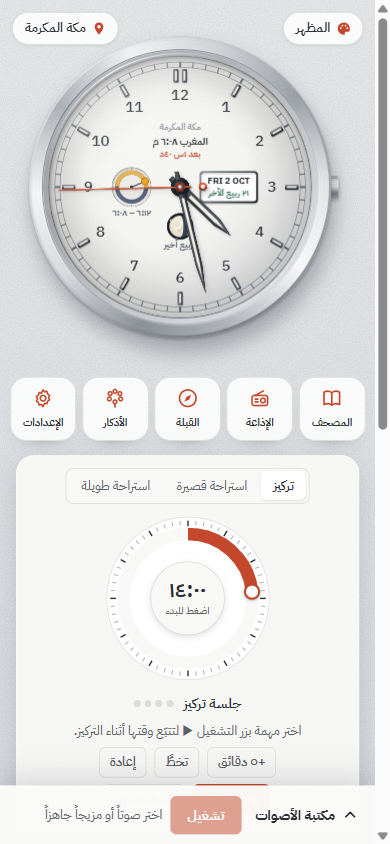
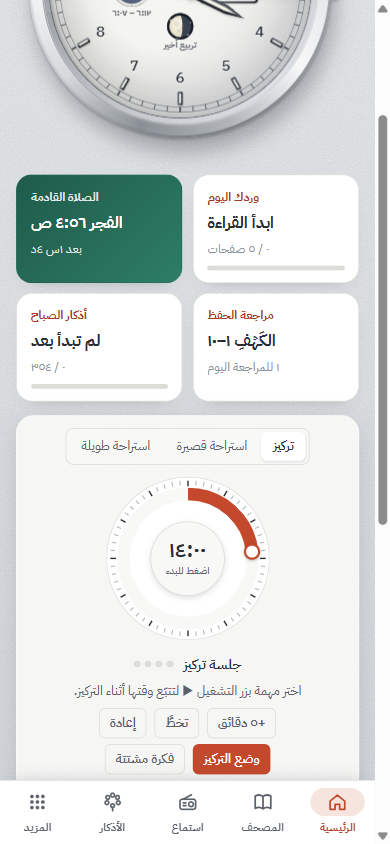
README for 2.x; real-phone tests in Firebase Test Lab; readable review dates
- README: what's new in 2.x, the new features and files, a memorisation
  screenshot and the new home screen, in English and Arabic.
- devices.yml + docs/DEVICE_TESTING.md: run each release on a Samsung and a
  Xiaomi phone in Firebase Test Lab (robo test); skipped until the secrets exist.
- Memorisation: review dates read "today", "tomorrow" or "6 October" instead
  of an ISO date that reads backwards in RTL.

diff --git a/js/hifz.js b/js/hifz.js
@@ -17,6 +17,9 @@
   const label = (it) => (it.from === 1 && it.to === count(it.s) ? name(it.s) : `${name(it.s)} ${I.num(it.from)}–${I.num(it.to)}`);
   const today = () => dayKey();
   const due = () => S.items.filter((it) => it.due <= today()).sort((a, b) => a.due.localeCompare(b.due) || a.s - b.s);
+  // A review day as people say it: today, tomorrow, or "6 October" (an ISO date reads backwards in RTL).
+  const when = (k) => (k === today() ? T('اليوم') : k === addDays(today(), 1) ? T('غداً')
+    : new Date(k.replace(/-/g, '/')).toLocaleDateString(I.locale, { day: 'numeric', month: 'long' }));
   const ayat = () => S.items.reduce((n, it) => n + (it.to - it.from + 1), 0);
 
   function add(s, from, to) {
@@ -76,7 +79,7 @@
       d.forEach((it) => {
         const r = el('div', 'hz-row');
         const txt = el('div', 'hz-text');
-        txt.append(el('b', '', label(it)), el('small', '', it.last ? `${T('آخر مراجعة')}: ${it.last}` : T('أول مراجعة')));
+        txt.append(el('b', '', label(it)), el('small', '', it.last ? `${T('آخر مراجعة')}: ${when(it.last)}` : T('أول مراجعة')));
         const read = button('btn btn-quiet', T('اقرأ'), () => { history.back(); setTimeout(() => window.noonQuran && window.noonQuran.openAyah(it.s + 1, it.from), 150); });
         const acts = el('div', 'hz-acts');
         acts.append(
@@ -125,7 +128,7 @@
       [...S.items].sort((x, y) => x.s - y.s || x.from - y.from).forEach((it) => {
         const r = el('div', 'hz-row');
         const txt = el('div', 'hz-text');
-        txt.append(el('b', '', label(it)), el('small', '', `${T('المراجعة القادمة')}: ${it.due}`));
+        txt.append(el('b', '', label(it)), el('small', '', `${T('المراجعة القادمة')}: ${when(it.due < today() ? today() : it.due)}`));
         const del = button('link-btn danger', T('حذف'), () => { S.items = S.items.filter((x) => x !== it); save(); render(); });
         r.append(txt, del);
         list.append(r);

diff --git a/sw.js b/sw.js
@@ -2,7 +2,7 @@
 // Page files: network first, so every visit gets the newest version, with the
 // saved copy as the fallback when there is no connection.
 // Sound recordings: saved the first time they play, then served from the device.
-const VERSION = 'v22';
+const VERSION = 'v23';
 const SHELL = 'shell-' + VERSION;
 const MEDIA = 'media-v1';
 const QURAN = 'quran-v1'; // the Mushaf texts: large and fixed, so kept once fetched

diff --git a/index.html b/index.html
@@ -1917,7 +1917,7 @@
 <script src="js/device.js?v=2.1.1"></script>
 <script src="js/extras-data.js?v=2.1.1"></script>
 <script src="js/quran-meta.js?v=2.1.1"></script>
-<script src="js/hifz.js?v=2.1.1"></script>
+<script src="js/hifz.js?v=2.1.2"></script>
 <script src="js/khatma.js?v=2.1.1"></script>
 <script src="js/quran.js?v=2.1.1"></script>
 <script src="js/sunnah-data.js?v=2.1.1"></script>

diff --git a/README.md b/README.md
@@ -30,15 +30,18 @@
 
 <table>
   <tr>
-    <td align="center"><img src="docs/screens/home.png" width="190" alt="Home: the prayer clock and the quick bar"><br><sub>Home · الرئيسية</sub></td>
+    <td align="center"><img src="docs/screens/home.png" width="190" alt="Home: the next prayer, today's wird, the adhkar and the memorisation review, with the bottom bar"><br><sub>My day · يومي</sub></td>
     <td align="center"><img src="docs/screens/quran.png" width="190" alt="The Mushaf with tafsir under each verse"><br><sub>The Mushaf · المصحف</sub></td>
-    <td align="center"><img src="docs/screens/listen.png" width="190" alt="Quran radio from Cairo and Saudi Arabia, and 177 stations"><br><sub>Listen · استماع</sub></td>
-    <td align="center"><img src="docs/screens/settings.png" width="190" alt="The Settings screen"><br><sub>Settings · الإعدادات</sub></td>
+    <td align="center"><img src="docs/screens/hifz.png" width="190" alt="Memorisation: today's reviews and everything memorised"><br><sub>Memorisation · الحفظ</sub></td>
   </tr>
   <tr>
-    <td align="center"><img src="docs/screens/fonts.png" width="190" alt="Choosing the Arabic and English fonts"><br><sub>Fonts · الخطوط</sub></td>
+    <td align="center"><img src="docs/screens/listen.png" width="190" alt="Quran radio from Cairo and Saudi Arabia, and 177 stations"><br><sub>Listen · استماع</sub></td>
     <td align="center"><img src="docs/screens/library.png" width="190" alt="The library: tools and the hadith books"><br><sub>Library · المكتبة</sub></td>
     <td align="center"><img src="docs/screens/adhkar.png" width="190" alt="Adhkar and duas"><br><sub>Adhkar · الأذكار</sub></td>
+  </tr>
+  <tr>
+    <td align="center"><img src="docs/screens/settings.png" width="190" alt="The Settings screen"><br><sub>Settings · الإعدادات</sub></td>
+    <td align="center"><img src="docs/screens/fonts.png" width="190" alt="Choosing the Arabic and English fonts"><br><sub>Fonts · الخطوط</sub></td>
     <td align="center"><img src="docs/screenshot-en.png" width="190" alt="The English interface on a computer"><br><sub>English · الإنجليزية</sub></td>
   </tr>
 </table>
@@ -50,7 +53,8 @@
 ## Contents
 
 - [About](#about)
-- [What's new in 1.7](#whats-new-in-17)
+- [What's new in 2.x](#whats-new-in-2x)
+- [What came in 1.7](#what-came-in-17)
 - [Features](#features)
 - [Install](#install)
 - [Tech stack](#tech-stack)
@@ -70,7 +74,21 @@ A calm daily companion built around the five prayers, made as an ongoing charity
 
 It runs in any browser, installs as an app on phones, tablets and computers, works offline after the first visit, and can sync between your devices. It opens in Arabic; one switch turns everything to English.
 
-## What's new in 1.7
+## What's new in 2.x
+
+| | |
+|---|---|
+| 🏠 **My day and a bottom bar** | On phones the app opens on "My day": the next prayer, today's wird, the morning or evening adhkar and the memorisation review, each one tap away. A bottom bar (Home, Mushaf, Listen, Adhkar, More) replaces the long scroll. New users get a few welcome steps: language, place, adhan, font. |
+| 🧠 **Memorisation reviews** | Add the surahs and passages you know by heart; each comes back for review on a growing schedule (1, 2, 4, 7, 15, 30, 60 days) — "well", "shaky" or "forgot" decides the next one. |
+| 👥 **Group khatma** | Start a khatma, share its link, and family or friends each take a juz' until the 30 are done. Behind row-level security: only members see it. |
+| ⏰ **The adhan on time on every phone** | A reliability card checks battery saving, notifications, exact alarms and the auto-start screens of Xiaomi, Oppo, Vivo, Huawei and others, and opens the right page for each. Shift any prayer by a few minutes to match your mosque. |
+| ⬇ **Listen offline** | Download surahs from any reciter and play them without the internet, with lock-screen controls. |
+| 📲 **Widgets, shortcuts, Android Auto** | Home-screen widgets for the verse of the day and the tasbih (beside the prayer one), long-press shortcuts, and the radios and your downloads in the car through Android Auto. |
+| 🔄 **Updates inside the app** | The app checks for a new version, downloads it and hands it to Android to install — only if it is signed with the same key. |
+| 🪶 **A much smaller app** | 67 MB → 15 MB: the focus sounds now come from the site on first use and are kept on the phone. |
+| 🔒 **Security** | A full review of the app and the site; a sign-in link sent by someone else no longer syncs your data to their account (2.1.1). Dependabot alerts and security updates are on. |
+
+## What came in 1.7
 
 | | |
 |---|---|
@@ -87,7 +105,7 @@ It runs in any browser, installs as an app on phones, tablets and computers, wor
 |:-:|---|---|
 | 🕰 | **Prayer clock** | Watch-face clock with the next prayer and a countdown, sunrise/sunset, moon phase, Hijri + Gregorian date. 32 countries and 12 calculation methods (Egyptian Survey, Umm al-Qura, Dubai…). Custom dial, frame and background. |
 | 📖 | **The Holy Quran** | The full Mushaf in the Uthmani script (Hafs, Tanzil text) with the Sahih International translation; verse-by-verse recitation from 9 reciters (including al-Husary's teaching recitation); a colour-coded tajweed Mushaf; a teaching mode (repeat each verse, pause to repeat after the reciter, slower speed) and a memorisation test; **9 tafsirs** (al-Muyassar, as-Sa‘di, Ibn Kathir, at-Tabari, al-Qurtubi, al-Baghawi, al-Wasit, al-Jalalayn, Ibn Kathir in English), shown under each verse if you like; word-by-word meanings with pronunciation; a completion plan; a daily wird; Juz ‘Amma for children; bookmarks, search, "continue reading", and light / sepia / night pages. Works offline once opened. |
-| 📻 | **Listen** | **177 Quran radio stations** (reciters, mixed and adhkar, tafsir and lessons, translations of the meanings) plus Quran Radio from Cairo; **241 reciters** in every riwayah (Hafs, Warsh, Qalun, ad-Duri…), whole surahs one after another; **audio tafsir** (at-Tabari's summary, by surah and verses); favourites, "continue listening" from the same minute, and a sleep timer. |
+| 📻 | **Listen** | Downloads to listen offline. **177 Quran radio stations** (reciters, mixed and adhkar, tafsir and lessons, translations of the meanings) plus Quran Radio from Cairo; **241 reciters** in every riwayah (Hafs, Warsh, Qalun, ad-Duri…), whole surahs one after another; **audio tafsir** (at-Tabari's summary, by surah and verses); favourites, "continue listening" from the same minute, and a sleep timer. |
 | 📺 | **Live TV** | Live from al-Masjid al-Haram and the Prophet's Mosque — the official broadcast of the Quran and Sunnah channels, in the app without ads. |
 | 📅 | **Hijri calendar and Sunnah reminders** | Umm al-Qura month view with a day shift for local moon sighting; reminders for Monday and Thursday fasts, the White Days, Arafah, Ashura, six of Shawwal, Ramadan and its last ten nights, and the ten days of Dhul-Hijjah, each with its hadith, reference and grading; no-fasting days marked; Friday and adhkar reminders. |
 | 📚 | **Library** | The six hadith books and al-Muwatta (Arabic with English and the gradings of al-Albani, Shu‘ayb al-Arna’ut, Ahmad Shakir and others; a "sahih and hasan only" filter), plus Sunan ad-Darimi, Musnad Ahmad (the Caliphs' part), an-Nawawi's Forty, the Forty Qudsi, Shah Waliullah's Forty, Riyad as-Salihin, Bulugh al-Maram, al-Adab al-Mufrad, ash-Shama’il and Mishkat al-Masabih. Search, hadith numbers, saved hadiths; chapters stay offline once read. |
@@ -98,9 +116,11 @@ It runs in any browser, installs as an app on phones, tablets and computers, wor
 | 🧭 | **Qibla** | Direction and distance to the Kaaba, with a live compass on phones. |
 | 📿 | **Adhkar and duas** | Morning and evening, after prayer, for students, ease, worry, ruqyah, sleep and istighfar — with a counter, audio and a tasbih. |
 | 🔔 | **Adhan and alerts** | Four adhan recordings plus a separate Fajr adhan, played by the phone's alarm clock even when the app is closed (and, if you wish, on silent mode); an iqamah reminder; reminders as designed cards you can share. |
-| 📲 | **Home-screen widget** | The next prayer, a live countdown and the day's five times. |
+| 📲 | **Widgets and shortcuts** | The next prayer with a live countdown, the verse of the day, a tasbih; long-press shortcuts; Android Auto. |
+| 🧠 | **Memorisation** | What you know by heart, with spaced reviews on "My day". |
+| 👥 | **Group khatma** | Share a khatma and split the 30 juz' between family and friends. |
 | ✅ | **Tasks and focus** | Tasks with subtasks and time tracking, the day split by prayer; a Pomodoro timer, full-screen focus mode, useful breaks, sticky notes, review cards with spaced repetition, habits with streaks, and a report with charts. |
-| 🎧 | **Focus sounds** | 32 recordings (rain, nature, places, noise…) to mix, plus your own music folder. |
+| 🎧 | **Focus sounds** | 32 recordings (rain, nature, places, noise…) to mix, plus your own music folder; fetched once and kept on the phone. |
 | ⚙ | **Settings, fonts, dark mode** | One Settings screen; 9 Arabic and 5 English interface fonts; light, dark or following the device; four text sizes. |
 | 🌐 | **Arabic ⇄ English** | Full RTL/LTR switch. Direct English link: `/en/` or `?lang=en`. |
 | 🔄 | **Sync** | Email and password sign-in; tasks and settings sync across devices through Supabase. |
@@ -111,7 +131,7 @@ Step-by-step page for every device: **[install.html](https://micro4tricks-ai.git
 
 | Device | How |
 |---|---|
-| **Android** | Download the [APK from the site](https://micro4tricks-ai.github.io/muslim-todo-list/muslim-todo-list.apk) (also on the [releases page](https://github.com/micro4tricks-ai/muslim-todo-list/releases/latest)). To update later: Settings → About → "Check for updates". |
+| **Android** | Download the [APK from the site](https://micro4tricks-ai.github.io/muslim-todo-list/muslim-todo-list.apk) (also on the [releases page](https://github.com/micro4tricks-ai/muslim-todo-list/releases/latest)). Updates arrive inside the app (Settings → About). |
 | **iPhone / iPad** | In Safari: Share → "Add to Home Screen". |
 | **Computer** | The "Install the app" button above the task list, or the install icon in the address bar. |
 
@@ -146,15 +166,16 @@ On Windows you can also double-click `تشغيل.bat`.
 The account (Settings → Account & sync) signs in with an email and password and syncs tasks and settings. To set it up on your own Supabase project:
 
 1. Create a free project on [supabase.com](https://supabase.com).
-2. **SQL Editor:** run `supabase/schema.sql`.
+2. **SQL Editor:** run `supabase/schema.sql`, then `supabase/khatma.sql` for the group khatma.
 3. **Authentication → URL Configuration:** set the *Site URL* and add the site and `http://localhost:8765/` to *Redirect URLs*.
 4. **Project Settings → API:** copy the *Project URL* and the *anon public key* into `js/config.js`.
 
 ## Releases and quality checks
 
-1. Push a version tag: `git tag v1.7.2 && git push origin v1.7.2`.
+1. Push a version tag: `git tag v2.1.2 && git push origin v2.1.2`.
 2. GitHub Actions builds a signed APK, installs the debug build on an **Android emulator** and goes through the app like a person would: every tab, the Mushaf, the library, both Quran radios on the native player, live TV, every Settings page, a font change, the back key, the adhan, the widget, and a renderer crash it must recover from. It measures memory and freezes, and **the release is published only if nothing is wrong**.
-3. The site is redeployed with the new APK next to it and `version.json`, which the app's "Check for updates" reads.
+3. The site is redeployed with the new APK next to it and `version.json`, which the app reads to offer the update.
+4. Optionally, [`devices.yml`](.github/workflows/devices.yml) runs the release on real Samsung and Xiaomi phones in Firebase Test Lab.
 
 Every day, [`sources.yml`](.github/workflows/sources.yml) checks every outside service the app reads from (radio, TV, recitations, tafsir, hadith, adhkar audio) and turns red when one is down. Live links live in [`live.json`](live.json) on the site, so a dead link is fixed there **without an app update**.
 
@@ -168,7 +189,9 @@ The signing key lives in the repository secrets, and its original copy is kept o
 | `js/i18n.js` | Translation and the Arabic ⇄ English switch |
 | `js/clock.js`, `js/astro.js` | The clock; location, prayer times, moon and dates |
 | `js/look.js`, `fonts/` | Colours, backgrounds, text size and the interface fonts (`fonts/extra.css` from `tools/build_fonts.py`) |
-| `js/settings.js` | The Settings screen |
+| `js/settings.js`, `js/device.js` | The Settings screen; the adhan reliability card |
+| `js/nav.js`, `js/today.js` | The bottom bar and "My day" |
+| `js/hifz.js`, `js/khatma.js`, `supabase/khatma.sql` | Memorisation reviews; the group khatma and its row-level security |
 | `js/views.js` | Tabs, shared helpers and the back-key handler |
 | `js/quran.js`, `js/quran-meta.js`, `quran/` | The Mushaf reader and its texts |
 | `js/listen.js`, `live.json`, `tv.html`, `js/vendor/hls.light.min.js` | Radio, recitations, audio tafsir and live TV |
@@ -179,11 +202,12 @@ The signing key lives in the repository secrets, and its original copy is kept o
 | `js/tasks.js`, `js/notes.js`, `js/cards.js`, `js/habits.js`, `js/focus-*.js`, `js/report.js`, `js/sounds.js` | Tasks, notes, review cards, habits, focus, report, sounds |
 | `js/tools.js`, `js/qibla.js`, `js/remind-card.js` | Tools, Qibla, reminder cards |
 | `js/sync*.js`, `js/config.js`, `supabase/schema.sql` | Sync |
-| `app/` | The Android app (Capacitor); Java in `app/android/app/src/main/java/…/muslimtodo/` (`PlayerService`, `PlayerPlugin`, `Adhan*`, `PrayerWidget`, `MainActivity`) |
+| `app/` | The Android app (Capacitor); Java in `app/android/app/src/main/java/…/muslimtodo/` (`PlayerService`, `PlayerPlugin`, `DevicePlugin`, `Adhan*`, `*Widget`, `MainActivity`) |
 | `app/scripts/smoke.mjs` | The emulator test |
 | `tools/build_*.py` | Build the Quran, adhkar, hadith, salah, extras and font data from their sources |
 | `tools/check_sources.mjs`, `tools/refresh_live.mjs` | The daily sources check and the live-video refresher |
-| `.github/workflows/` | `android.yml` (build, test, release), `pages.yml` (site), `sources.yml` (daily check) |
+| `tools/supabase_migrate.py`, `tools/test_khatma.py` | Apply the SQL and test the khatma rules (in a transaction that is rolled back) |
+| `.github/workflows/` | `android.yml` (build, test, release), `pages.yml` (site), `sources.yml` (daily check), `devices.yml` (real phones, see [docs/DEVICE_TESTING.md](docs/DEVICE_TESTING.md)) |
 | `fastlane/metadata/android/`, `docs/PUBLISHING.md` | Store texts and how to list the app in other stores |
 
 ## Contributing
@@ -217,7 +241,18 @@ The code is released under the [MIT License](LICENSE). Texts, recordings, broadc
 
 **قائمة مهام المسلم** رفيق يومي هادئ مبني حول الصلوات الخمس، معمول **صدقة جارية: مجاني بالكامل، بلا إعلانات وبلا تتبّع**. ساعة عقارب تعرض الصلاة القادمة، والشروق والغروب، والقمر، والتاريخ الهجري والميلادي، وحولها كل ما يحتاجه المسلم في يومه.
 
-### الجديد في الإصدار ١٫٧
+### الجديد في الإصدار ٢
+
+- **«يومي» وشريط سفلي:** على الموبايل يفتح التطبيق على الصلاة القادمة، وورد اليوم، والأذكار، ومراجعة الحفظ؛ وشريط سفلي للتنقل (الرئيسية، المصحف، استماع، الأذكار، المزيد)، وخطوات ترحيب للمستخدم الجديد.
+- **متابعة الحفظ:** أضف ما تحفظه، ويرجع لك للمراجعة على فترات تزداد كلما أتقنت (يوم، يومان، ٤، ٧، ١٥، ٣٠، ٦٠ يوماً).
+- **ختمة جماعية:** ابدأ ختمة وشارك رابطها، وكل واحد من الأهل والأصحاب يأخذ جزءاً حتى تكتمل الثلاثون.
+- **الأذان في وقته على كل الهواتف:** بطاقة تفحص توفير البطارية والإشعارات والمنبّهات الدقيقة والتشغيل التلقائي في شاومي وأوبو وفيفو وهواوي وغيرها، وتعديل كل صلاة بدقائق لتوافق مسجدك.
+- **الاستماع دون إنترنت:** نزّل السور من أي قارئ واسمعها بلا إنترنت.
+- **ويدجت وأيقونات مختصرة وAndroid Auto:** آية اليوم، والمسبحة، والإذاعات والتنزيلات في السيارة.
+- **التحديث من داخل التطبيق،** وحجم أصغر بكثير (من ٦٧ إلى ١٥ ميجا).
+- **الأمان:** فحص كامل للتطبيق والموقع، وإغلاق ثغرة رابط الدخول المرسَل من شخص آخر (٢٫١٫١).
+
+### ما جاء في الإصدار ١٫٧
 
 - **إذاعات القرآن تعمل والشاشة مقفولة:** في تطبيق أندرويد صار الاستماع بمشغّل أندرويد أصلي، مع التحكم من الإشعارات وشاشة القفل، ويقف وقت المكالمات والأذان ويرجع بعدها. وإذاعة القرآن الكريم من **القاهرة** ومن **السعودية** تعملان الآن.
 - **البث المباشر بلا إعلانات:** قناة القرآن الكريم من المسجد الحرام وقناة السنة النبوية من المسجد النبوي، من البث الرسمي للهيئة بجودة حتى 1080p، ولو تعطّل يتحوّل وحده لمصدر آخر.
@@ -234,12 +269,12 @@ The code is released under the [MIT License](LICENSE). Texts, recordings, broadc
 - **التقويم الهجري وتنبيهات السنن:** صيام الاثنين والخميس والأيام البيض وعرفة وعاشوراء والست من شوال، ورمضان والعشر، بالدليل والتخريج.
 - **صلواتي ورمضان والأدوات:** سجل الصلوات والسنن والقضاء، والإمساكية، وحاسبة الزكاة، ودليل الحج والعمرة، والأسماء الحسنى، والاستخارة، والمساجد القريبة، ومحوّل التاريخ، والقبلة.
 - **الأذكار والأدعية:** الصباح والمساء وبعد الصلاة وغيرها، مع العدّاد والتلاوة الصوتية والمسبحة.
-- **الأذان والتنبيهات:** أربعة أصوات أذان وأذان مستقل للفجر، يعمل والتطبيق مغلق، وتذكير الإقامة، وكروت تذكير تُشارَك صوراً، وويدجت للشاشة الرئيسية.
+- **الأذان والتنبيهات:** أربعة أصوات أذان وأذان مستقل للفجر، يعمل والتطبيق مغلق، وتذكير الإقامة، وكروت تذكير تُشارَك صوراً، وويدجت للصلاة وآية اليوم والمسبحة.
 - **المهام والتركيز:** مهام فرعية وتتبع الوقت وتقسيم اليوم حسب الصلاة، ومؤقت تركيز، وملاحظات، وكروت مراجعة، وعادات، وتقرير، ومكتبة أصوات للتركيز.
 
 ### التثبيت (مجاناً)
 
-- **أندرويد:** [حمّل التطبيق من الموقع مباشرة](https://micro4tricks-ai.github.io/muslim-todo-list/muslim-todo-list.apk). والتحديثات من: الإعدادات ← حول التطبيق ← «تحقق من وجود تحديث».
+- **أندرويد:** [حمّل التطبيق من الموقع مباشرة](https://micro4tricks-ai.github.io/muslim-todo-list/muslim-todo-list.apk). والتحديثات تصلك من داخل التطبيق (الإعدادات ← حول التطبيق).
 - **آيفون وآيباد:** من Safari ← مشاركة ← «إضافة إلى الشاشة الرئيسية».
 - **الكمبيوتر:** زر «ثبّت التطبيق» أعلى قائمة المهام.
 

diff --git a/docs/DEVICE_TESTING.md b/docs/DEVICE_TESTING.md
@@ -1,0 +1,29 @@
+# Testing on real phones (Firebase Test Lab)
+
+Every release already goes through a full check on an Android emulator before it is published
+(`.github/workflows/android.yml`). The **Real devices** workflow (`.github/workflows/devices.yml`) adds
+real phones: after each release it installs the APK on a Samsung and a Xiaomi phone in Google's lab
+and lets a robot tap through the app; a crash or a freeze turns the run red. The free Spark plan
+allows 5 such tests a day, more than enough.
+
+## الإعداد مرة واحدة (بالعربي)
+
+1. افتح [console.firebase.google.com](https://console.firebase.google.com) وادخل بحساب Google، ثم **إنشاء مشروع**
+   (أي اسم، مثلاً `muslim-todo-list`؛ التحليلات غير مطلوبة). يبقى على الخطة المجانية Spark.
+2. من القائمة الجانبية افتح **Test Lab** مرة واحدة (هذا يفعّل الخدمة للمشروع).
+3. افتح [console.cloud.google.com/iam-admin/serviceaccounts](https://console.cloud.google.com/iam-admin/serviceaccounts)
+   واختر المشروع نفسه، ثم **إنشاء حساب خدمة** باسم `github-test-lab` ودور **Editor** (محرر) — لهذا المشروع فقط.
+4. افتح الحساب ← **Keys** ← **Add key** ← **JSON**. سينزل ملف؛ احفظه على سطح المكتب باسم `firebase-key.json`.
+   **لا تلصقه في المحادثة ولا ترفعه للمستودع.**
+5. قل لي «حفظت الملف» واكتب **رقم المشروع (Project ID)**، وسأضيفهما سرّاً في GitHub ثم أحذف الملف من جهازك.
+
+## Setup once (English)
+
+1. Create a Firebase project at console.firebase.google.com (Spark plan, analytics not needed).
+2. Open **Test Lab** once in that project.
+3. In Google Cloud IAM, create a service account (`github-test-lab`) with the **Editor** role on this project only.
+4. Create a **JSON key** for it.
+5. Add two repository secrets: `FIREBASE_SA_KEY` (the whole JSON) and `FIREBASE_PROJECT` (the project id),
+   e.g. `gh secret set FIREBASE_SA_KEY < firebase-key.json`. Then delete the key file.
+
+Run it by hand from **Actions → Real devices → Run workflow**, or let it follow each release.
